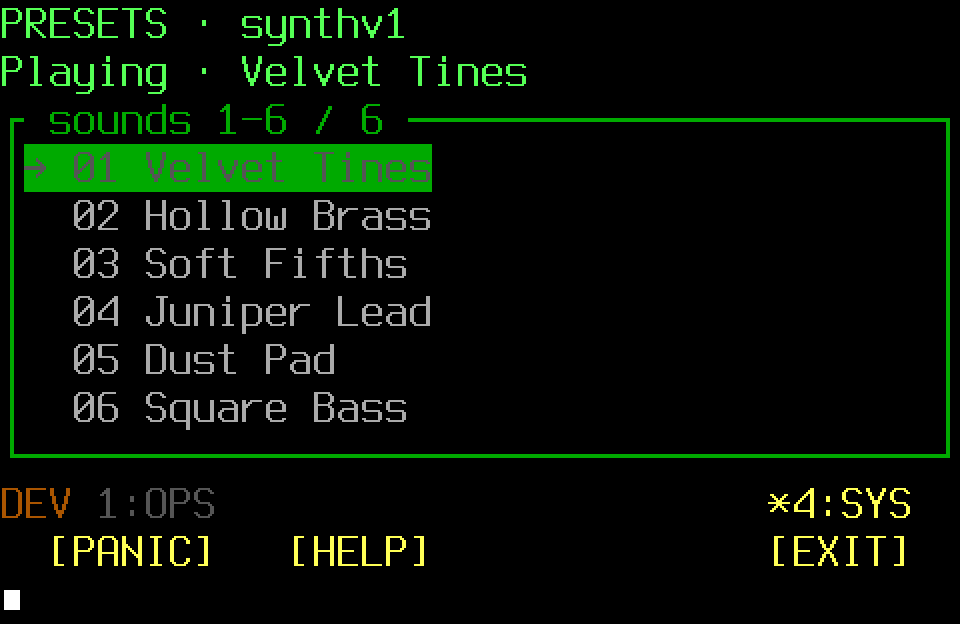
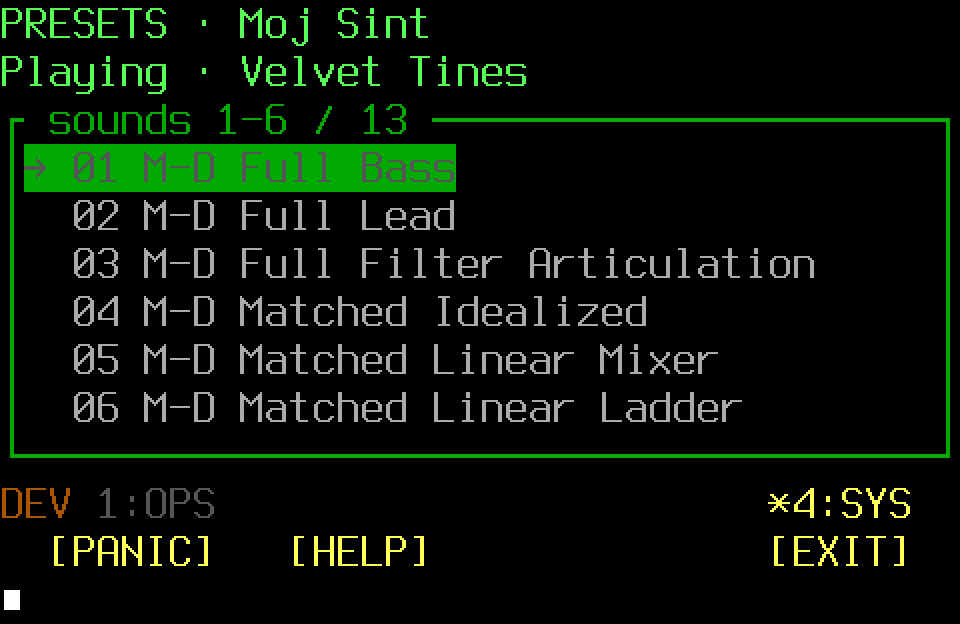
Fix Moj Sint catalog presentation

diff --git a/src/ui.rs b/src/ui.rs
@@ -1630,10 +1630,7 @@ impl App {
         engine_state: PathBuf,
         routing_defaults_path: PathBuf,
     ) -> Self {
-        let backend_index = catalogs
-            .iter()
-            .position(|catalog| catalog.backend == BackendKind::Synthv1)
-            .unwrap_or(0);
+        let backend_index = 0;
         let presets = catalogs
             .get(backend_index)
             .map(|catalog| catalog.presets.clone())
@@ -18494,7 +18491,7 @@ fn draw_list<B: Backend>(f: &mut Frame<B>, a: &mut App) {
         .as_ref()
         .map(|preset| {
             crate::ui_text::fit_middle(
-                &format!("Playing · {}", preset.name),
+                &format!("Playing · {}", preset.display_name()),
                 usize::from(head.width),
             )
         })
@@ -18518,11 +18515,13 @@ fn draw_list<B: Backend>(f: &mut Frame<B>, a: &mut App) {
     let lines = (a.offset..(a.offset + rows).min(a.presets.len()))
         .map(|i| {
             let mark = if i == a.selected { "▶" } else { " " };
+            let name = if a.presets[i].backend == BackendKind::MojSint {
+                a.presets[i].display_name()
+            } else {
+                format!("{:02} {}", i + 1, a.presets[i].display_name())
+            };
             Spans::from(Span::styled(
-                crate::ui_text::fit_line(
-                    &format!("{mark} {:02} {}", i + 1, a.presets[i].display_name()),
-                    usize::from(inner.width),
-                ),
+                crate::ui_text::fit_line(&format!("{mark} {name}"), usize::from(inner.width)),
                 if i == a.selected {
                     Style::default()
                         .fg(Color::Black)
@@ -18579,7 +18578,7 @@ fn draw_synth_parameters<B: Backend>(
     let sound_name = a
         .playing
         .as_ref()
-        .map(|p| format!("{} · {}", p.backend.label(), p.name))
+        .map(|p| format!("{} · {}", p.backend.label(), p.display_name()))
         .unwrap_or_else(|| "none".into());
     let name = if context == SynthParameterContext::Tracker {
         format!("FT2 · {sound_name}")
@@ -20683,22 +20682,65 @@ fn screenshot_app(mut config: RuntimeConfig) -> App {
             preferred_source: format!("interface:capture_{}", index + 1),
         })
         .collect();
-    let catalogs = [Catalog {
-        backend: BackendKind::Synthv1,
-        presets: [
-            "Velvet Tines",
-            "Hollow Brass",
-            "Soft Fifths",
-            "Juniper Lead",
-            "Dust Pad",
-            "Square Bass",
-        ]
+    let synthv1_presets = [
+        "Velvet Tines",
+        "Hollow Brass",
+        "Soft Fifths",
+        "Juniper Lead",
+        "Dust Pad",
+        "Square Bass",
+    ]
+    .into_iter()
+    .enumerate()
+    .map(|(index, name)| Preset::synthv1(name, format!("demo-{index}.synthv1").into()))
+    .collect::<Vec<_>>();
+    let moj_names = [
+        "01 Full Bass",
+        "02 Full Lead",
+        "03 Full Filter Articulation",
+        "04 Matched Idealized",
+        "05 Matched Linear Mixer",
+        "06 Matched Linear Ladder",
+        "07 Matched No Drift or Feedback",
+        "08 Six-Op Bell Metal",
+        "09 Six-Op Fractured Metal",
+        "10 Six-Op Electric Piano Mallet",
+        "11 Six-Op Glass Wood",
+        "12 Six-Op Brass Bass",
+        "13 Six-Op Mechanical Stab",
+    ];
+    let moj_presets = moj_names
         .into_iter()
         .enumerate()
-        .map(|(index, name)| Preset::synthv1(name, format!("demo-{index}.synthv1").into()))
-        .collect(),
-        unavailable: None,
-    }];
+        .map(|(index, name)| {
+            let model = if index < 7 {
+                preset::MojModel::ModelD
+            } else {
+                preset::MojModel::SixOpPm
+            };
+            Preset {
+                backend: BackendKind::MojSint,
+                name: name.into(),
+                category: Some(model.label().into()),
+                id: preset::PresetId::MojSint {
+                    model,
+                    path: format!("demo-{index}.mojsint").into(),
+                },
+            }
+        })
+        .collect();
+    let catalogs = [
+        Catalog {
+            backend: BackendKind::MojSint,
+            presets: moj_presets,
+            unavailable: None,
+        },
+        Catalog {
+            backend: BackendKind::Synthv1,
+            presets: synthv1_presets,
+            unavailable: None,
+        },
+    ];
     let available_audio_ports = config.audio_outputs.clone();
     let capture_sources = config
         .capture
@@ -20729,7 +20771,7 @@ fn screenshot_app(mut config: RuntimeConfig) -> App {
         PathBuf::from("/none"),
     );
     app.web_help_enabled = false;
-    app.playing = app.presets.first().cloned();
+    app.playing = catalogs[1].presets.first().cloned();
     app.status = "Ready".into();
     app.song.name = "dusk-project".into();
     app
@@ -24264,6 +24306,34 @@ release = 0.4
     }
 
     #[test]
+    fn moj_sint_preset_list_shows_one_number_and_one_short_model_code() {
+        let moj_presets = vec![
+            moj_preset(preset::MojModel::ModelD, "01 Full Bass"),
+            moj_preset(preset::MojModel::SixOpPm, "08 Six-Op Bell Metal"),
+        ];
+        let mut app = app(&presets());
+        app.catalogs.insert(
+            0,
+            Catalog {
+                backend: BackendKind::MojSint,
+                presets: moj_presets.clone(),
+                unavailable: None,
+            },
+        );
+        app.backend_index = 0;
+        app.presets = moj_presets;
+        app.screen = Screen::Presets;
+
+        let text = buffer_text(&render_app(&mut app, 40, 13));
+        assert!(text.contains("01 M-D Full Bass"), "{text}");
+        assert!(text.contains("08 6-OP Bell Metal"), "{text}");
+        assert!(!text.contains("[Model D]"), "{text}");
+        assert!(!text.contains("[Six-Op PM]"), "{text}");
+        assert!(!text.contains("01 01"), "{text}");
+        assert!(!text.contains("08 08"), "{text}");
+    }
+
+    #[test]
     fn moj_sint_legacy_instrument_route_resolves_to_model_qualified_identity() {
         let presets = presets();
         let mut app = app(&presets);
@@ -25556,6 +25626,18 @@ release = 0.4
                 .collect::<String>();
             assert!(text.contains(BUILD_BADGE), "missing {BUILD_BADGE}: {text}");
         }
+    }
+
+    #[test]
+    fn canonical_presets_screenshot_starts_with_compact_moj_sint_names() {
+        let mut app = screenshot_app(RuntimeConfig::default());
+        configure_screenshot_scenario(&mut app, ScreenshotScenario::Presets);
+
+        let text = buffer_text(&render_app(&mut app, 40, 13));
+        assert!(text.contains("PRESETS · Moj Sint"), "{text}");
+        assert!(text.contains("01 M-D Full Bass"), "{text}");
+        assert!(!text.contains("[Model D]"), "{text}");
+        assert!(!text.contains("01 01"), "{text}");
     }
 
     #[test]

diff --git a/src/preset.rs b/src/preset.rs
@@ -25,10 +25,10 @@ pub enum BackendKind {
 
 impl BackendKind {
     pub const ALL: [Self; 4] = [
+        Self::MojSint,
         Self::Synthv1,
         Self::Yoshimi,
         Self::FluidSynth,
-        Self::MojSint,
     ];
 
     pub fn label(self) -> &'static str {
@@ -129,6 +129,9 @@ impl Preset {
     }
 
     pub fn display_name(&self) -> String {
+        if let PresetId::MojSint { model, .. } = &self.id {
+            return compact_moj_sint_name(*model, &self.name);
+        }
         if self.backend == BackendKind::FluidSynth {
             return self.name.clone();
         }
@@ -213,6 +216,38 @@ impl Preset {
     }
 }
 
+fn compact_moj_sint_name(model: MojModel, name: &str) -> String {
+    let (number, mut sound) = name.split_once(' ').map_or((None, name), |(first, rest)| {
+        if !first.is_empty() && first.chars().all(|character| character.is_ascii_digit()) {
+            (Some(first), rest)
+        } else {
+            (None, name)
+        }
+    });
+    let (code, redundant_prefixes): (&str, &[&str]) = match model {
+        MojModel::ModelD => ("M-D", &["Model D", "M-D"]),
+        MojModel::SixOpPm => ("6-OP", &["Six-Op PM", "Six-Op", "6-OP"]),
+    };
+    for prefix in redundant_prefixes {
+        if sound
+            .get(..prefix.len())
+            .is_some_and(|candidate| candidate.eq_ignore_ascii_case(prefix))
+            && sound
+                .get(prefix.len()..)
+                .is_some_and(|rest| rest.is_empty() || rest.starts_with(' '))
+        {
+            sound = sound[prefix.len()..].trim_start();
+            break;
+        }
+    }
+    match (number, sound.is_empty()) {
+        (Some(number), false) => format!("{number} {code} {sound}"),
+        (Some(number), true) => format!("{number} {code}"),
+        (None, false) => format!("{code} {sound}"),
+        (None, true) => code.into(),
+    }
+}
+
 #[derive(Clone, Debug)]
 pub struct Catalog {
     pub backend: BackendKind,
@@ -264,6 +299,12 @@ pub fn discover_all(
     }
     vec![
         catalog(
+            BackendKind::MojSint,
+            command_exists(&config.moj_sint.backend.command),
+            discover_moj_sint(&moj_roots),
+            &config.moj_sint.backend.command,
+        ),
+        catalog(
             BackendKind::Synthv1,
             command_exists(&config.synth_command),
             discover_synthv1_roots(&[synthv1_dir.to_path_buf(), user_storage.synthv1.clone()]),
@@ -284,12 +325,6 @@ pub fn discover_all(
             command_exists(&config.fluidsynth.backend.command),
             discover_fluidsynth(&config.fluidsynth.soundfonts),
             &config.fluidsynth.backend.command,
-        ),
-        catalog(
-            BackendKind::MojSint,
-            command_exists(&config.moj_sint.backend.command),
-            discover_moj_sint(&moj_roots),
-            &config.moj_sint.backend.command,
         ),
     ]
 }
@@ -1723,11 +1758,38 @@ mod tests {
 
     #[test]
     fn engine_cycle_wraps_in_both_directions() {
-        assert_eq!(BackendKind::Synthv1.next(-1), BackendKind::MojSint);
+        assert_eq!(BackendKind::ALL[0], BackendKind::MojSint);
+        assert_eq!(BackendKind::MojSint.next(-1), BackendKind::FluidSynth);
+        assert_eq!(BackendKind::MojSint.next(1), BackendKind::Synthv1);
         assert_eq!(BackendKind::Synthv1.next(1), BackendKind::Yoshimi);
         assert_eq!(BackendKind::Yoshimi.next(1), BackendKind::FluidSynth);
         assert_eq!(BackendKind::FluidSynth.next(1), BackendKind::MojSint);
-        assert_eq!(BackendKind::MojSint.next(1), BackendKind::Synthv1);
+    }
+
+    #[test]
+    fn moj_sint_display_uses_short_model_codes_without_repeating_the_model() {
+        let preset = |model: MojModel, name: &str| Preset {
+            backend: BackendKind::MojSint,
+            name: name.into(),
+            category: Some(model.label().into()),
+            id: PresetId::MojSint {
+                model,
+                path: PathBuf::from("sound.mojsint"),
+            },
+        };
+
+        assert_eq!(
+            preset(MojModel::ModelD, "01 Full Bass").display_name(),
+            "01 M-D Full Bass"
+        );
+        assert_eq!(
+            preset(MojModel::SixOpPm, "08 Six-Op Bell Metal").display_name(),
+            "08 6-OP Bell Metal"
+        );
+        assert_eq!(
+            preset(MojModel::SixOpPm, "Six-Op PM User 001").display_name(),
+            "6-OP User 001"
+        );
     }
 
     #[test]

diff --git a/docs/WORKSPACE_HANDOFF.md b/docs/WORKSPACE_HANDOFF.md
@@ -69,8 +69,28 @@ macro fields; schema 4 and older remain Model D migrations. Discovery contains
 seven Model D and six Six-Op PM starts. FT2 ROUTE presents `ENGINE → MODEL →
 PATCH` for Moj Sint, constrains patch browsing to the selected model, and keeps
 the existing whole-route Apply/Cancel transaction. Playback renders the
-selected model's twelve labels. This is software integration only: connected
-JACK, audible, physical-control, and native callback acceptance remain open.
+selected model's twelve labels. The first connected audition found
+note-count-dependent artifacts because the private runtime launched an
+unoptimized Moj Sint binary. Native smoke evidence and bounded chord renders
+identified callback starvation rather than clipping; the runtime now launches
+`target/release/moj-sint`, and the user confirmed that the reported two-note
+Model D and four-note Six-Op failures are gone. This is acceptance of that
+repair only; broader physical-control, routing, polyphony, and sound acceptance
+remain open.
+
+The catalog presentation repair places the in-house Moj Sint first in
+Presets and software-engine selection. Moj factory names retain their stable
+preset and Project route identities but display one compact number/model/name:
+for example, `01 M-D Full Bass` and `08 6-OP Bell Metal`, without bracketed
+model labels or repeated `Six-Op` text. The generated 40x13 Presets reference
+now records that exact first-engine view. Source, focused regressions, the
+complete normal suite, debug/release builds, and all 142 deterministic
+screenshots passed on the native Pi. A warning-denied Clippy run still reports
+38 pre-existing repository-wide lints outside this repair, and `cargo deny`
+has no repository policy file so its default configuration rejects every
+dependency license; those broader release-gate debts were not folded into the
+catalog change. Live visual confirmation remains open until the user next
+relaunches SHR.
 
 The 2026-08-01 locked software gate used Rust 1.97.1 on AArch64. Focused Moj
 schema/control/engine and Route hierarchy tests passed, then the complete
@@ -553,9 +573,9 @@ Plain `shr` resolves to this checkout's `scripts/local.sh` through
 must not be used. The launcher uses `target/debug/shr` unless `SHSYNTH_BIN` is
 explicitly set; the debug TUI shows `DEV`. Do not restore the obsolete
 release-binary alias. Repository-local runtime metadata selects the companion
-Moj Sint checkout's fresh debug binary and public preset catalog; Playback user
-sounds remain in the separate ignored private data root and were not inspected
-during this configuration check.
+Moj Sint checkout's fresh release binary and public preset catalog; Playback
+user sounds remain in the separate ignored private data root and were not
+inspected during this configuration check.
 
 ## Dated DSP/JACK closure record (2026-07-22)
 
